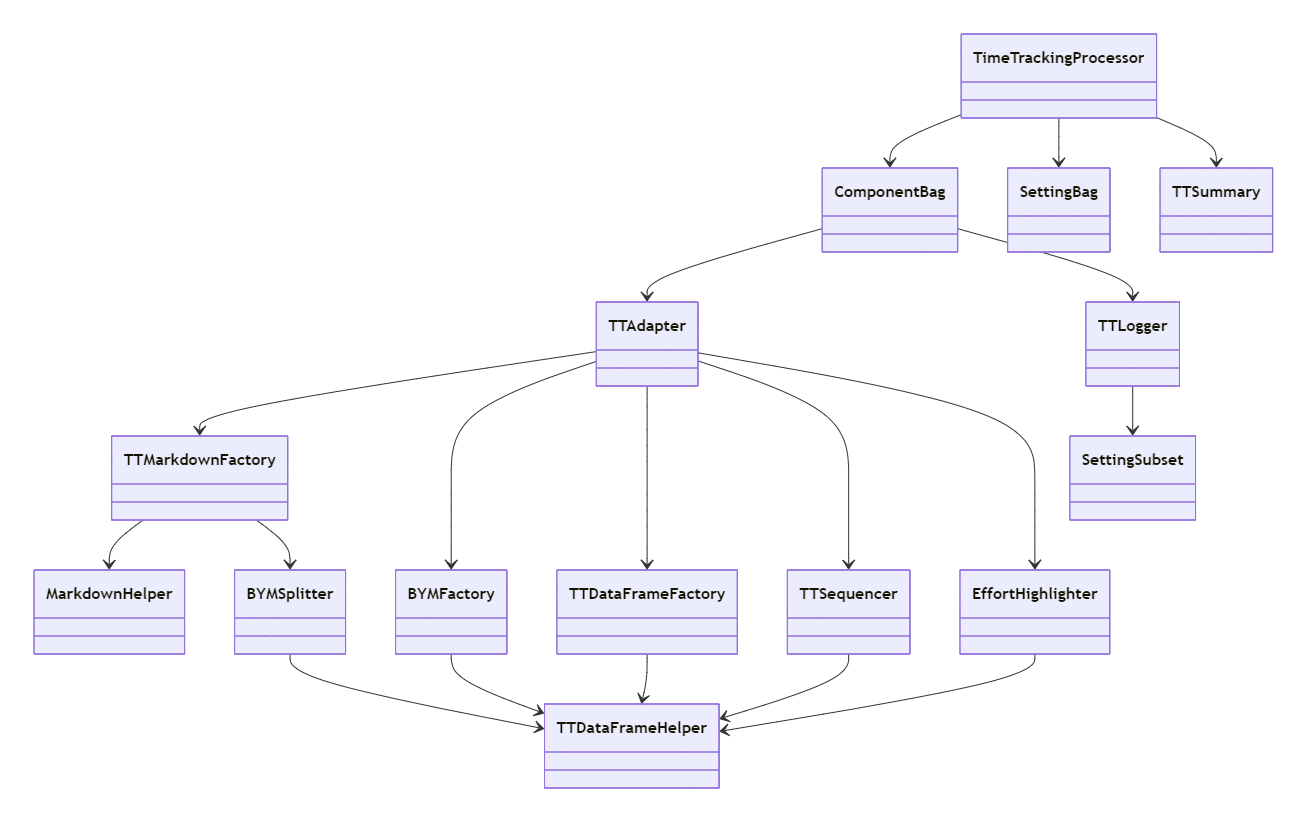
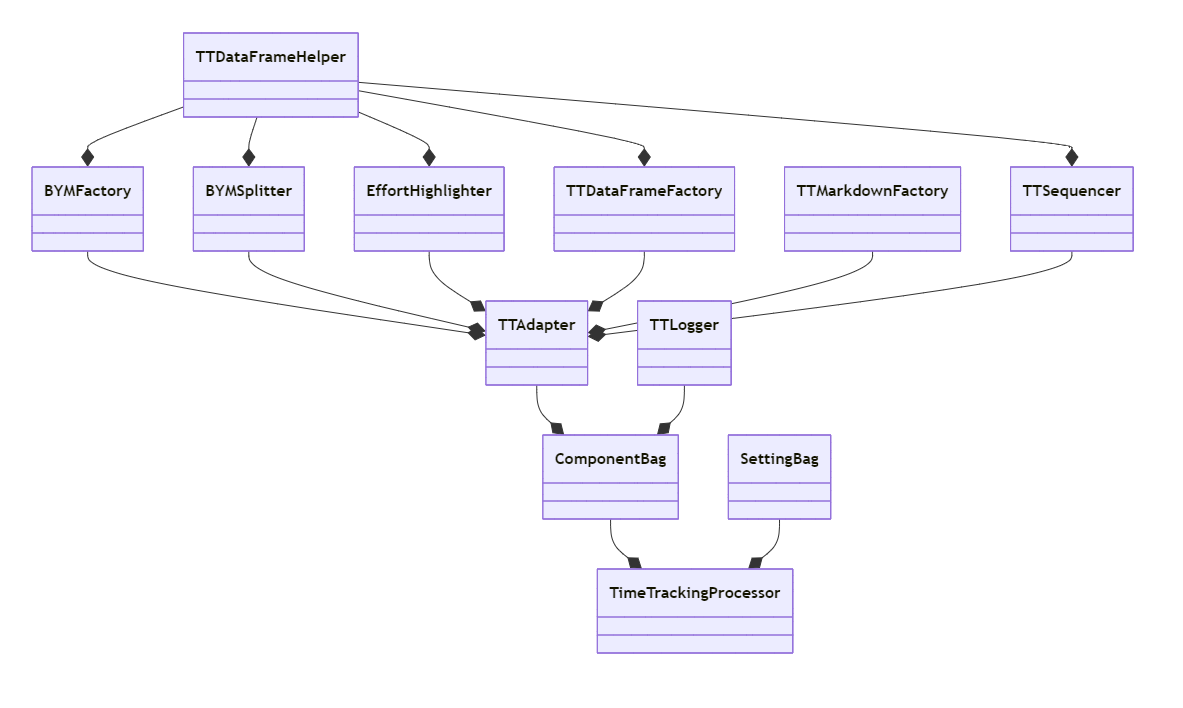
#52 Diagram-Architecture*: updated.

diff --git a/docs/Diagrams/Diagram-Architecture.md b/docs/Diagrams/Diagram-Architecture.md
@@ -1,24 +1,18 @@
 ```mermaid
 classDiagram
-    %% Relationships
-    TimeTrackingProcessor --> ComponentBag
-    TimeTrackingProcessor --> SettingBag
-    TimeTrackingProcessor --> TTSummary
-    ComponentBag --> TTAdapter
-    ComponentBag --> TTLogger
-    TTLogger --> SettingSubset
-    TTMarkdownFactory --> MarkdownHelper
-    TTMarkdownFactory --> BYMSplitter
-
-    BYMFactory --> TTDataFrameHelper
-    BYMSplitter --> TTDataFrameHelper
-    TTDataFrameFactory --> TTDataFrameHelper
-    TTSequencer --> TTDataFrameHelper
-    EffortHighlighter --> TTDataFrameHelper
-
-    TTAdapter --> TTMarkdownFactory
-    TTAdapter --> BYMFactory
-    TTAdapter --> TTDataFrameFactory
-    TTAdapter --> TTSequencer
-    TTAdapter --> EffortHighlighter
+  BYMFactory --* TTAdapter
+  BYMSplitter --* TTAdapter
+  ComponentBag --* TimeTrackingProcessor
+  EffortHighlighter --* TTAdapter
+  SettingBag --* TimeTrackingProcessor
+  TTAdapter --* ComponentBag
+  TTDataFrameFactory --* TTAdapter
+  TTDataFrameHelper --* BYMFactory
+  TTDataFrameHelper --* BYMSplitter
+  TTDataFrameHelper --* EffortHighlighter
+  TTDataFrameHelper --* TTDataFrameFactory
+  TTDataFrameHelper --* TTSequencer
+  TTLogger --* ComponentBag
+  TTMarkdownFactory --* TTAdapter
+  TTSequencer --* TTAdapter
 ```
